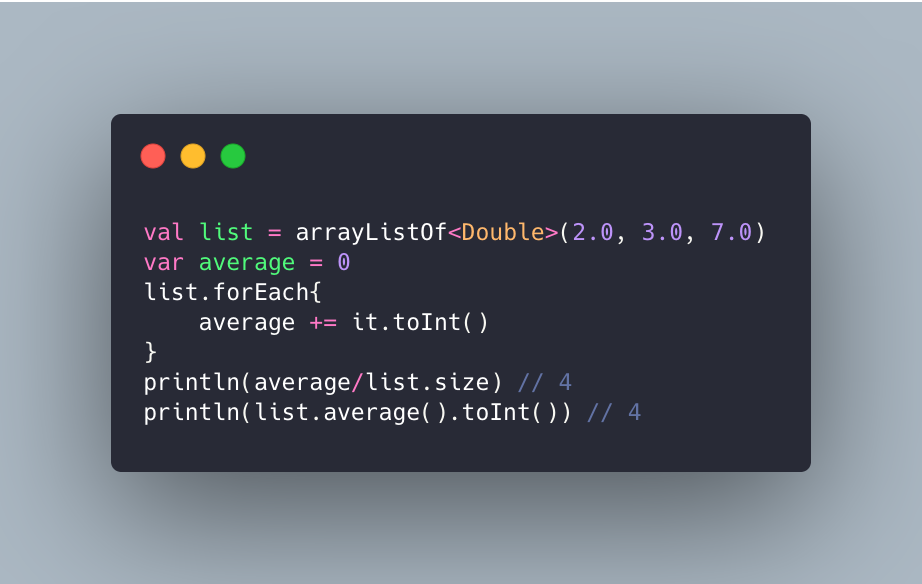
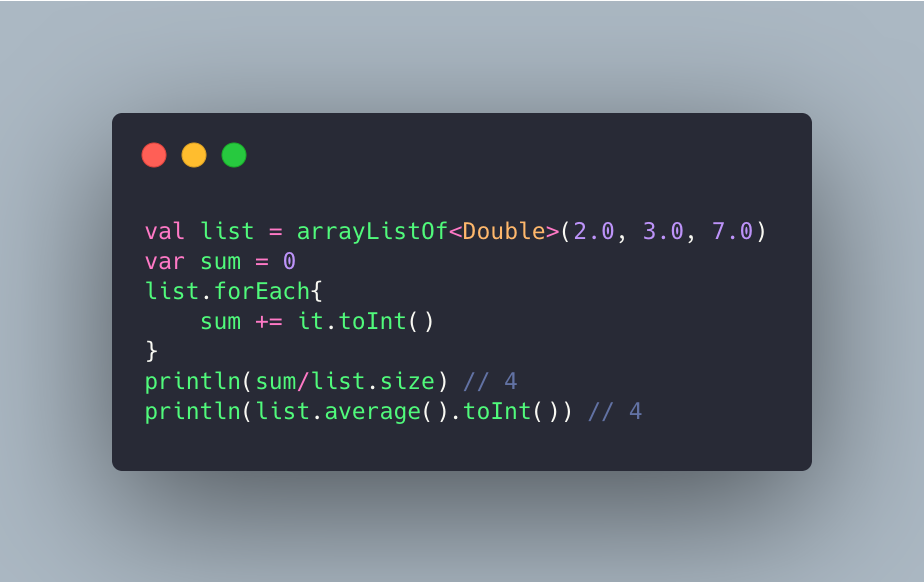
[Fixes #82] Naming issue

diff --git a/codes/Average.kt b/codes/Average.kt
@@ -1,7 +1,7 @@
 val list = arrayListOf<Double>(2.0, 3.0, 7.0)
-var average = 0
+var sum = 0
 list.forEach{
-    average += it.toInt()
+    sum += it.toInt()
 }
-println(average/list.size) // 4
+println(sum/list.size) // 4
 println(list.average().toInt()) // 4

diff --git a/README.md b/README.md
@@ -27,7 +27,7 @@
 ### #172 Proguard Keep Variants
 ![alt text](/screenshots/ProguardKeep.png)
 
-### #171 Kotlin Average Usage
+### #171 Kotlin Average Usage(/codes/Average.kt)
 ![alt text](/screenshots/Average.png)
 
 ### #170 View Visiblity Extensions
